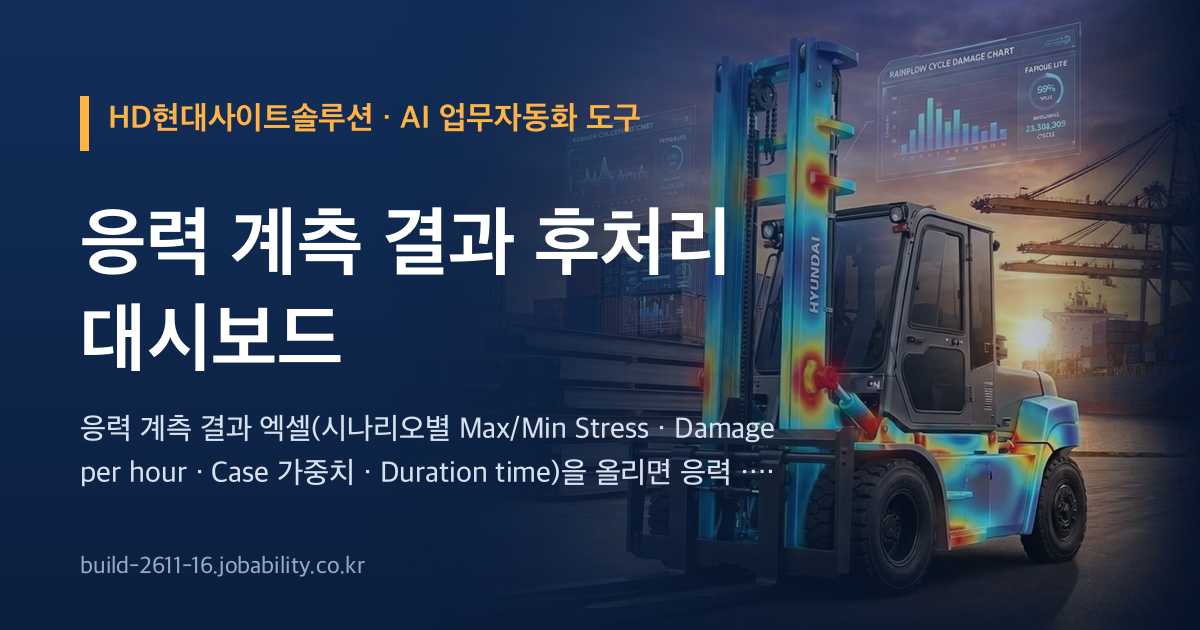
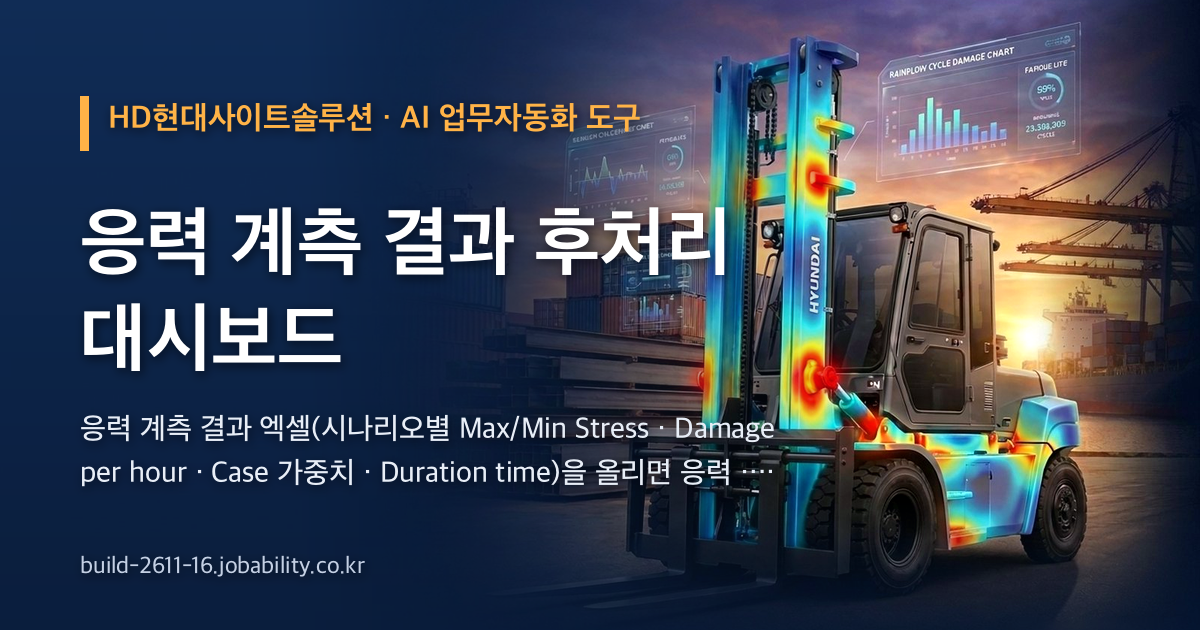
공유 그림 다시(사진 또렷하게) · 판 2026-11-13.12

diff --git a/index.html b/index.html
@@ -12,8 +12,8 @@
 <meta property="og:title" content="HD현대사이트솔루션 · 응력 계측 결과 후처리 대시보드">
 <meta property="og:description" content="응력 계측 결과 엑셀(시나리오별 Max/Min Stress · Damage per hour · Case 가중치 · Duration time)을 올리면 응력 · 수명 대시보드와 취약 채널 TOP10, 위험도 평가, 6절 보고서를 만드는 브라우저 도구입니다. 계산식은 엑셀과 같고 파일에 적">
 <meta property="og:url" content="https://build-2611-16.jobability.co.kr/">
-<meta property="og:image" content="https://build-2611-16.jobability.co.kr/og-image.png">
-<meta property="og:image:secure_url" content="https://build-2611-16.jobability.co.kr/og-image.png">
+<meta property="og:image" content="https://build-2611-16.jobability.co.kr/og-image.png?v=2">
+<meta property="og:image:secure_url" content="https://build-2611-16.jobability.co.kr/og-image.png?v=2">
 <meta property="og:image:type" content="image/png">
 <meta property="og:image:width" content="1200">
 <meta property="og:image:height" content="630">
@@ -22,7 +22,7 @@
 <meta name="twitter:card" content="summary_large_image">
 <meta name="twitter:title" content="HD현대사이트솔루션 · 응력 계측 결과 후처리 대시보드">
 <meta name="twitter:description" content="응력 계측 결과 엑셀(시나리오별 Max/Min Stress · Damage per hour · Case 가중치 · Duration time)을 올리면 응력 · 수명 대시보드와 취약 채널 TOP10, 위험도 평가, 6절 보고서를 만드는 브라우저 도구입니다. 계산식은 엑셀과 같고 파일에 적">
-<meta name="twitter:image" content="https://build-2611-16.jobability.co.kr/og-image.png">
+<meta name="twitter:image" content="https://build-2611-16.jobability.co.kr/og-image.png?v=2">
 <!-- /seo-kit -->
 <meta name="description" content="응력 계측 결과 엑셀(시나리오별 Max/Min Stress · Damage per hour · Case 가중치 · Duration time)을 올리면 응력 · 수명 대시보드와 취약 채널 TOP10, 위험도 평가, 6절 보고서를 만드는 브라우저 도구입니다. 계산식은 엑셀과 같고 파일에 적힌 값과 다시 계산한 값을 대조합니다.">
 <link rel="icon" href="favicon.svg" type="image/svg+xml">
@@ -30,9 +30,9 @@
 <link rel="stylesheet" href="css/app.css?v=1.1b">
 <!-- auth-kit: 로그인 전에는 도구 화면을 감춘다(js/auth.js 가 판정 뒤 푼다) -->
 <script>document.documentElement.classList.add('auth-lock')</script>
-<link rel="stylesheet" href="css/auth.css?v=2026-11-13.11">
-<link rel="stylesheet" href="css/board.css?v=2026-11-13.11">
-<link rel="stylesheet" href="css/kit-build.css?v=2026-11-13.11">
+<link rel="stylesheet" href="css/auth.css?v=2026-11-13.12">
+<link rel="stylesheet" href="css/board.css?v=2026-11-13.12">
+<link rel="stylesheet" href="css/kit-build.css?v=2026-11-13.12">
 <!-- /auth-kit -->
 </head>
 <body>
@@ -148,11 +148,11 @@
 <script src="js/stress.js?v=1.1b"></script>
 <script src="js/app.js?v=1.1b"></script>
 <!-- auth-kit: 로그인 · 사용 신청 · 승인 · 게시판(키트 정본 data10-00/kit/auth, 적용 build-2611-00/tools/kit) -->
-<script src="vendor/supabase.js?v=2026-11-13.11"></script>
-<script src="js/auth-config.js?v=2026-11-13.11"></script>
-<script src="js/kit-build.js?v=2026-11-13.11"></script>
-<script src="js/board.js?v=2026-11-13.11"></script>
-<script src="js/auth.js?v=2026-11-13.11"></script>
+<script src="vendor/supabase.js?v=2026-11-13.12"></script>
+<script src="js/auth-config.js?v=2026-11-13.12"></script>
+<script src="js/kit-build.js?v=2026-11-13.12"></script>
+<script src="js/board.js?v=2026-11-13.12"></script>
+<script src="js/auth.js?v=2026-11-13.12"></script>
 <!-- /auth-kit -->
 </body>
 </html>

diff --git a/guide.html b/guide.html
@@ -12,8 +12,8 @@
 <meta property="og:title" content="사용법 — 응력 계측 결과 후처리 대시보드">
 <meta property="og:description" content="응력 계측 결과 엑셀(시나리오별 Max/Min Stress · Damage per hour · Case 가중치 · Duration time)을 올리면 응력 · 수명 대시보드와 취약 채널 TOP10, 위험도 평가, 6절 보고서를 만드는 브라우저 도구입니다. 계산식은 엑셀과 같고 파일에 적">
 <meta property="og:url" content="https://build-2611-16.jobability.co.kr/guide.html">
-<meta property="og:image" content="https://build-2611-16.jobability.co.kr/og-image.png">
-<meta property="og:image:secure_url" content="https://build-2611-16.jobability.co.kr/og-image.png">
+<meta property="og:image" content="https://build-2611-16.jobability.co.kr/og-image.png?v=2">
+<meta property="og:image:secure_url" content="https://build-2611-16.jobability.co.kr/og-image.png?v=2">
 <meta property="og:image:type" content="image/png">
 <meta property="og:image:width" content="1200">
 <meta property="og:image:height" content="630">
@@ -22,7 +22,7 @@
 <meta name="twitter:card" content="summary_large_image">
 <meta name="twitter:title" content="사용법 — 응력 계측 결과 후처리 대시보드">
 <meta name="twitter:description" content="응력 계측 결과 엑셀(시나리오별 Max/Min Stress · Damage per hour · Case 가중치 · Duration time)을 올리면 응력 · 수명 대시보드와 취약 채널 TOP10, 위험도 평가, 6절 보고서를 만드는 브라우저 도구입니다. 계산식은 엑셀과 같고 파일에 적">
-<meta name="twitter:image" content="https://build-2611-16.jobability.co.kr/og-image.png">
+<meta name="twitter:image" content="https://build-2611-16.jobability.co.kr/og-image.png?v=2">
 <!-- /seo-kit -->
 <link rel="icon" href="favicon.svg" type="image/svg+xml">
 <link rel="stylesheet" href="css/style.css?v=1.1b">

diff --git a/plan.html b/plan.html
@@ -12,8 +12,8 @@
 <meta property="og:title" content="기획서 — 응력 계측 결과 후처리 대시보드">
 <meta property="og:description" content="응력 계측 결과 엑셀(시나리오별 Max/Min Stress · Damage per hour · Case 가중치 · Duration time)을 올리면 응력 · 수명 대시보드와 취약 채널 TOP10, 위험도 평가, 6절 보고서를 만드는 브라우저 도구입니다. 계산식은 엑셀과 같고 파일에 적">
 <meta property="og:url" content="https://build-2611-16.jobability.co.kr/plan.html">
-<meta property="og:image" content="https://build-2611-16.jobability.co.kr/og-image.png">
-<meta property="og:image:secure_url" content="https://build-2611-16.jobability.co.kr/og-image.png">
+<meta property="og:image" content="https://build-2611-16.jobability.co.kr/og-image.png?v=2">
+<meta property="og:image:secure_url" content="https://build-2611-16.jobability.co.kr/og-image.png?v=2">
 <meta property="og:image:type" content="image/png">
 <meta property="og:image:width" content="1200">
 <meta property="og:image:height" content="630">
@@ -22,7 +22,7 @@
 <meta name="twitter:card" content="summary_large_image">
 <meta name="twitter:title" content="기획서 — 응력 계측 결과 후처리 대시보드">
 <meta name="twitter:description" content="응력 계측 결과 엑셀(시나리오별 Max/Min Stress · Damage per hour · Case 가중치 · Duration time)을 올리면 응력 · 수명 대시보드와 취약 채널 TOP10, 위험도 평가, 6절 보고서를 만드는 브라우저 도구입니다. 계산식은 엑셀과 같고 파일에 적">
-<meta name="twitter:image" content="https://build-2611-16.jobability.co.kr/og-image.png">
+<meta name="twitter:image" content="https://build-2611-16.jobability.co.kr/og-image.png?v=2">
 <!-- /seo-kit -->
 <link rel="icon" href="favicon.svg" type="image/svg+xml">
 <link rel="stylesheet" href="css/style.css">

diff --git a/report.html b/report.html
@@ -12,8 +12,8 @@
 <meta property="og:title" content="평가보고서 — 응력 계측 결과 후처리 대시보드">
 <meta property="og:description" content="응력 계측 결과 후처리 대시보드 점검 · 평가보고서(2026-11-13) — 사이트 점검, 기능과 시험, 인계 준비, 판 이력, 한계.">
 <meta property="og:url" content="https://build-2611-16.jobability.co.kr/report.html">
-<meta property="og:image" content="https://build-2611-16.jobability.co.kr/og-image.png">
-<meta property="og:image:secure_url" content="https://build-2611-16.jobability.co.kr/og-image.png">
+<meta property="og:image" content="https://build-2611-16.jobability.co.kr/og-image.png?v=2">
+<meta property="og:image:secure_url" content="https://build-2611-16.jobability.co.kr/og-image.png?v=2">
 <meta property="og:image:type" content="image/png">
 <meta property="og:image:width" content="1200">
 <meta property="og:image:height" content="630">
@@ -22,7 +22,7 @@
 <meta name="twitter:card" content="summary_large_image">
 <meta name="twitter:title" content="평가보고서 — 응력 계측 결과 후처리 대시보드">
 <meta name="twitter:description" content="응력 계측 결과 후처리 대시보드 점검 · 평가보고서(2026-11-13) — 사이트 점검, 기능과 시험, 인계 준비, 판 이력, 한계.">
-<meta name="twitter:image" content="https://build-2611-16.jobability.co.kr/og-image.png">
+<meta name="twitter:image" content="https://build-2611-16.jobability.co.kr/og-image.png?v=2">
 <!-- /seo-kit -->
 <meta name="description" content="응력 계측 결과 후처리 대시보드 점검 · 평가보고서(2026-11-13) — 사이트 점검, 기능과 시험, 인계 준비, 판 이력, 한계.">
 <link rel="icon" href="favicon.svg" type="image/svg+xml">
